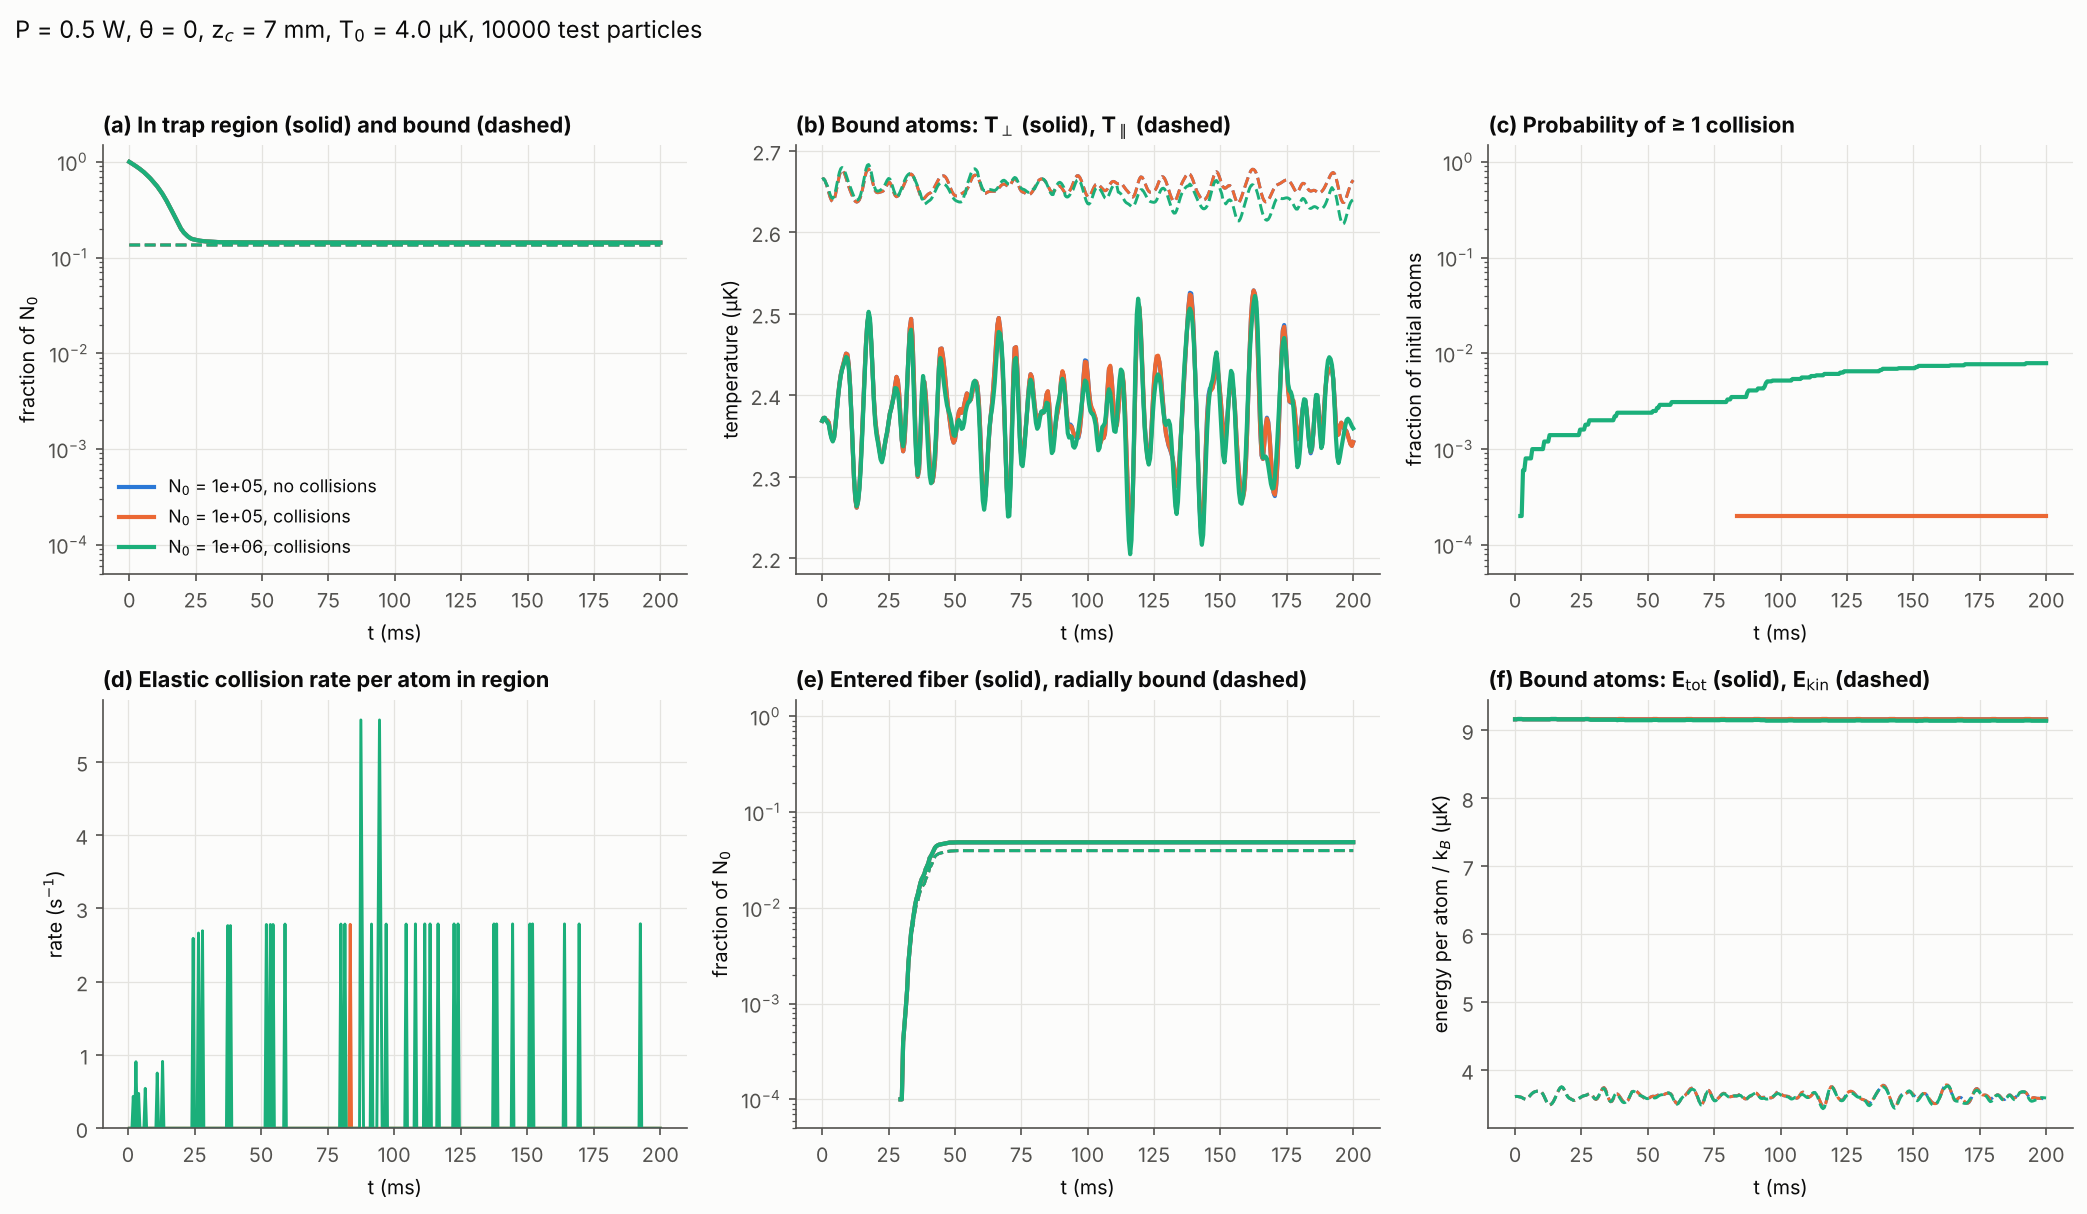
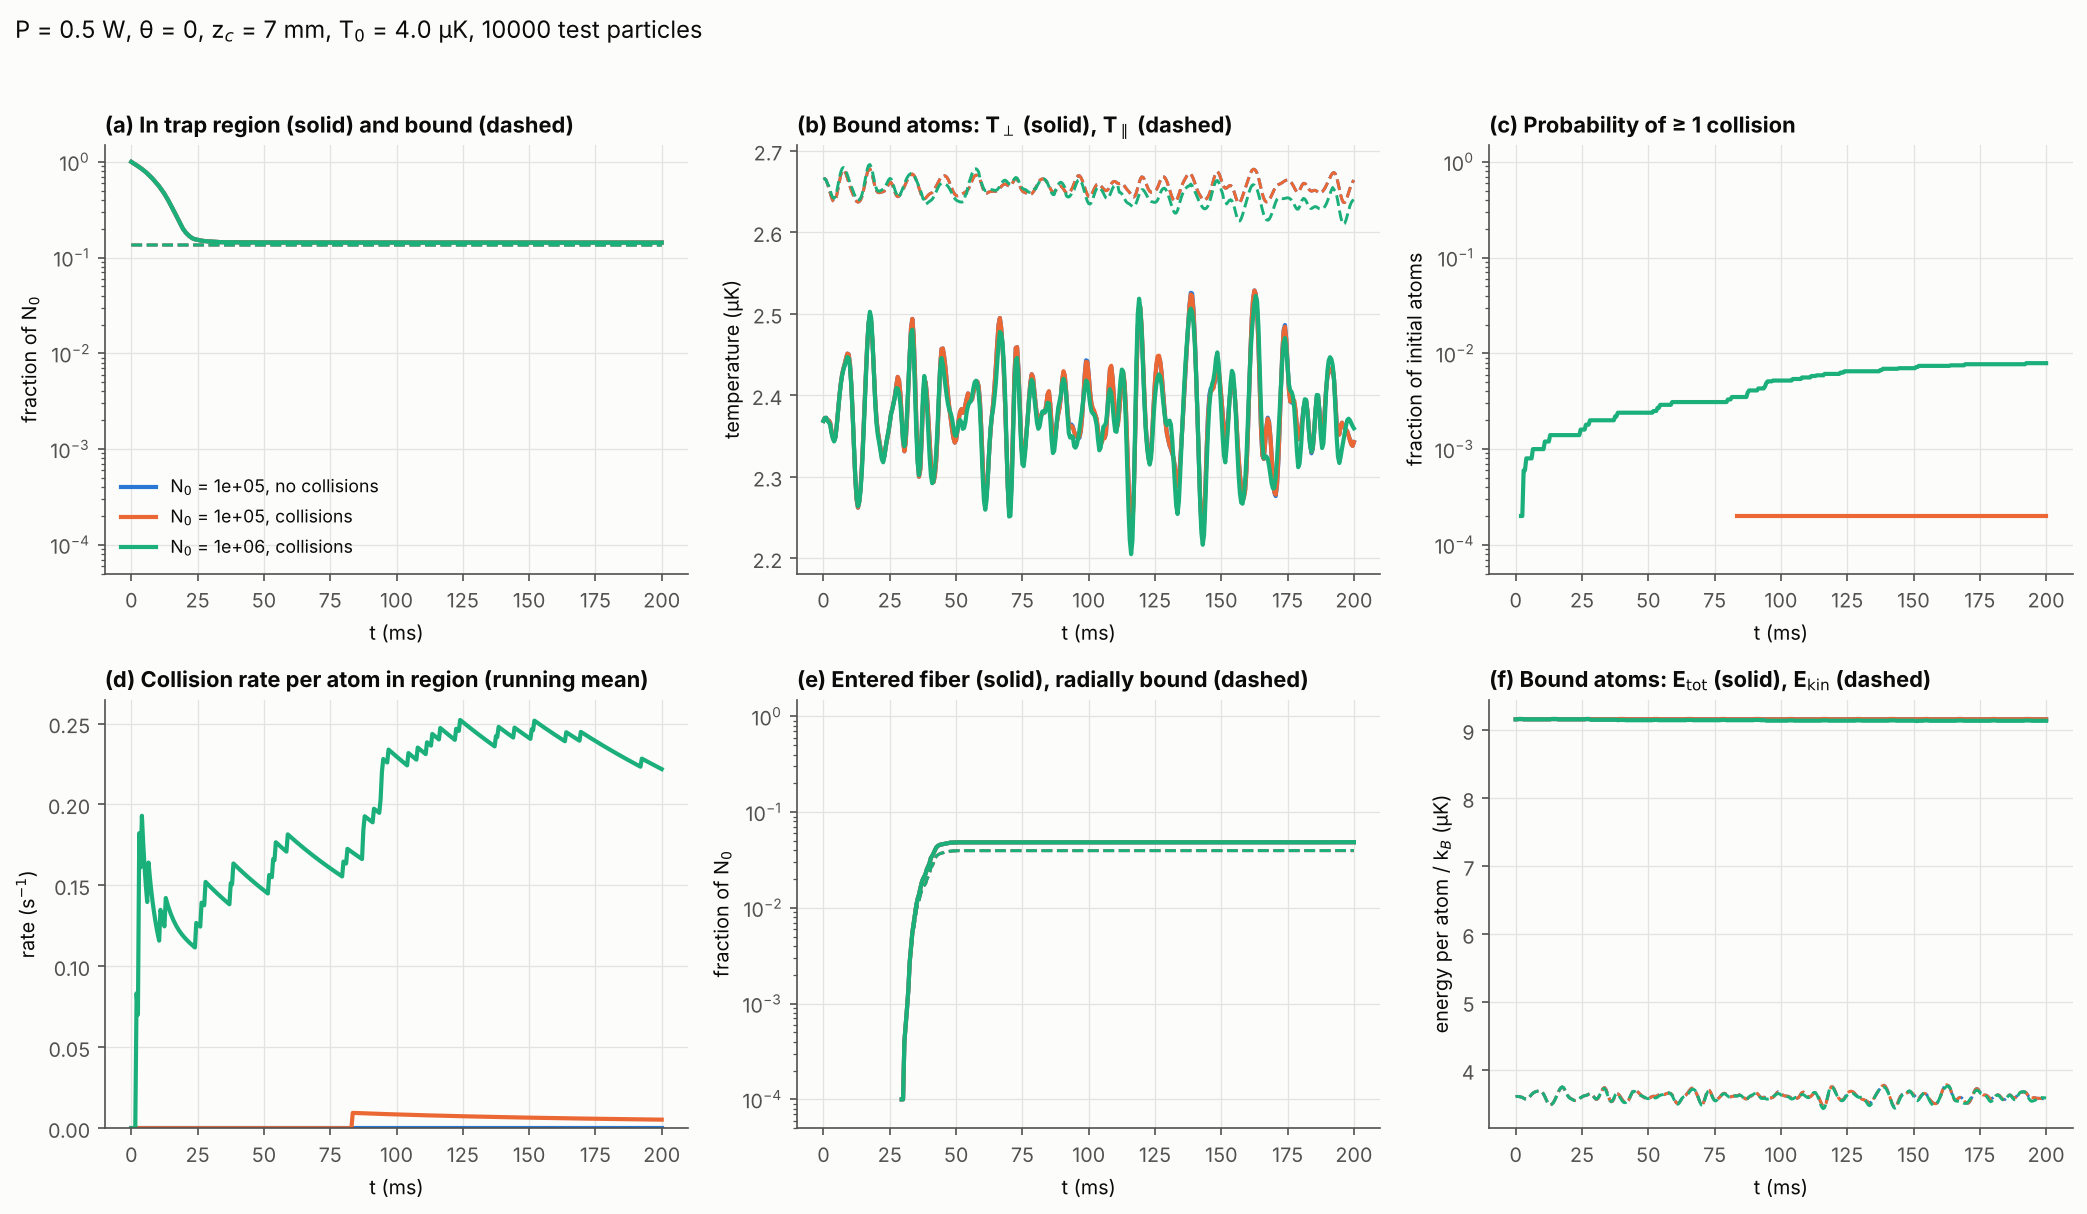
Dense test config, robust summary formatting in plots
Claude-Session: https://claude.ai/code/session_01UQfvWTUvu2owGmJDS15n3q

diff --git a/plotting/plot_timeseries.py b/plotting/plot_timeseries.py
@@ -31,6 +31,11 @@ def read_table(run_dir: Path, name: str) -> pd.DataFrame:
     raise FileNotFoundError(f"{name} not found in {run_dir}")
 
 
+def _fmt(v, spec, missing="n/a"):
+    """Format a summary value that may be missing (stored as null for nan/inf)."""
+    return missing if v is None else format(v, spec)
+
+
 def _line(ax, t, y, i, label, **kw):
     ax.plot(t, y, color=SERIES[i], label=label, **kw)
 
@@ -140,8 +145,9 @@ def plot_run(run_dir: Path, logy: bool = False):
     fig.suptitle(
         f"{S['run_id']}:  P = {S['P_up_W']} W, θ = {S['theta_rad']:g}, z$_c$ = {S['z_center_mm']:g} mm, "
         f"T$_0$ = {S['T0_uK']} µK, N$_0$ = {S['N0']:.0e}, {coll}, {S['n_test']} test particles  —  "
-        f"t$_{{1/e}}$ = {S['decay_t_1e']:.1f} ms, plateau {S['decay_f_plateau']:.3f}, "
-        f"max |ΔE| (no coll.) = {S['max_dE_nocoll_kT']:.1e} kT",
+        f"t$_{{1/e}}$ = {_fmt(S['decay_t_1e'], '.1f', 'not reached')}"
+        f"{'' if S['decay_t_1e'] is None else ' ms'}, plateau {_fmt(S['decay_f_plateau'], '.3f')}, "
+        f"max |ΔE| (no coll.) = {_fmt(S['max_dE_nocoll_kT'], '.1e')} kT",
         x=0.01, ha="left", fontsize=10)
     fig.tight_layout(rect=(0, 0, 1, 0.96))
     suffix = "_logy" if logy else ""
